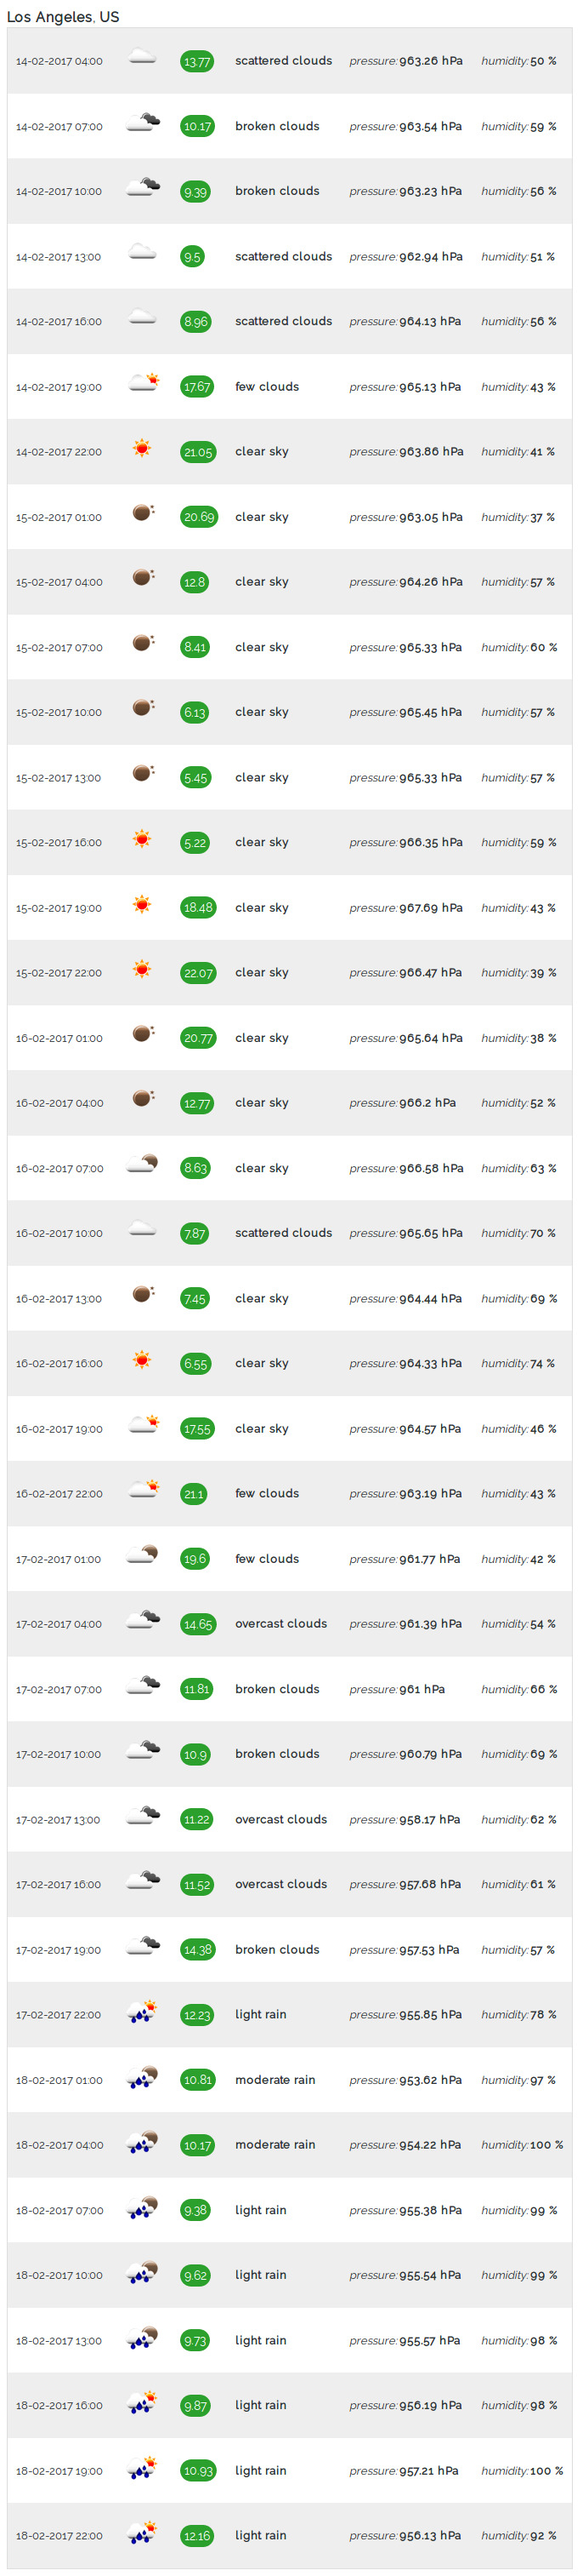
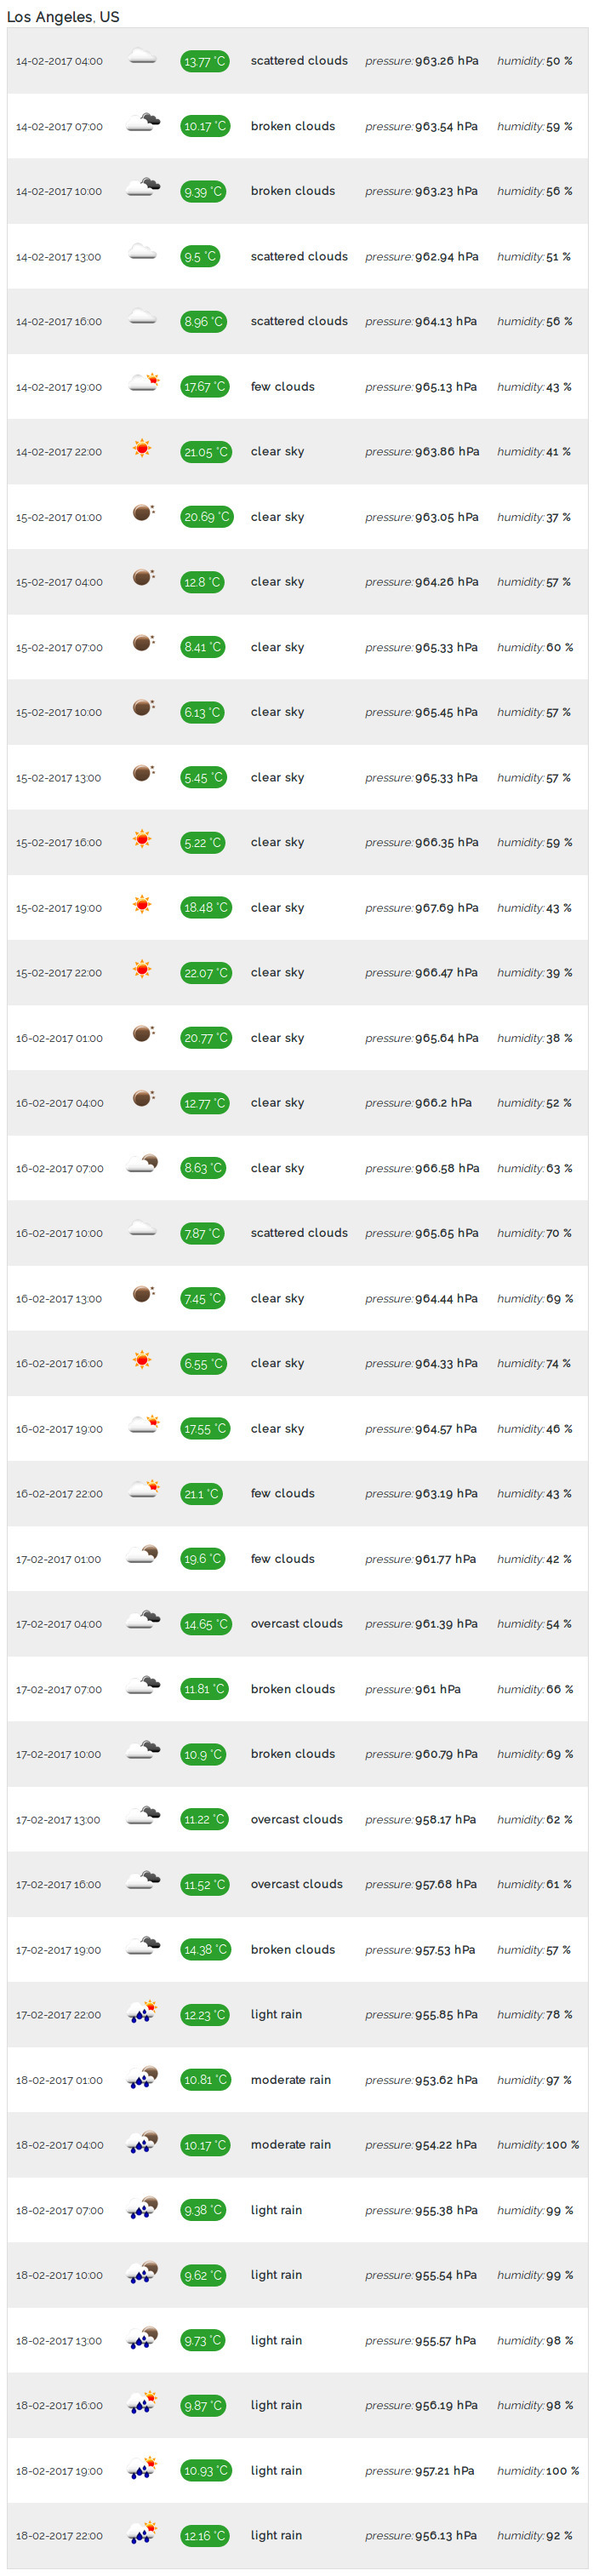
fixed

diff --git a/examples/forecast-basic.php b/examples/forecast-basic.php
@@ -54,7 +54,7 @@ $forecast = array_map(function ($value) {
                 <tr>
                     <td><span class="small-font"><?php echo $weather['timestamp'] ?></span></td>
                     <td><img class="icon" src="http://openweathermap.org/img/w/<?php echo $weather['icon'] ?>.png"></td>
-                    <td><span class="green-highlighted"><?php echo $weather['temp'] ?></span></td>
+                    <td><span class="green-highlighted"><?php echo $weather['temp'] .'&nbsp;&deg;C'?></span></td>
                     <td><span class="bold small-font"><?php echo $weather['description'] ?></span></td>
                     <td><span class="italic small-font">pressure:&nbsp;</span><span class="bold small-font"><?php echo $weather['pressure'] .'&nbsp;hPa' ?></span></td>
                     <td><span class="italic small-font">humidity:&nbsp;</span><span class="bold small-font"><?php echo $weather['humidity'] .'&nbsp;%'; ?></span></td>
